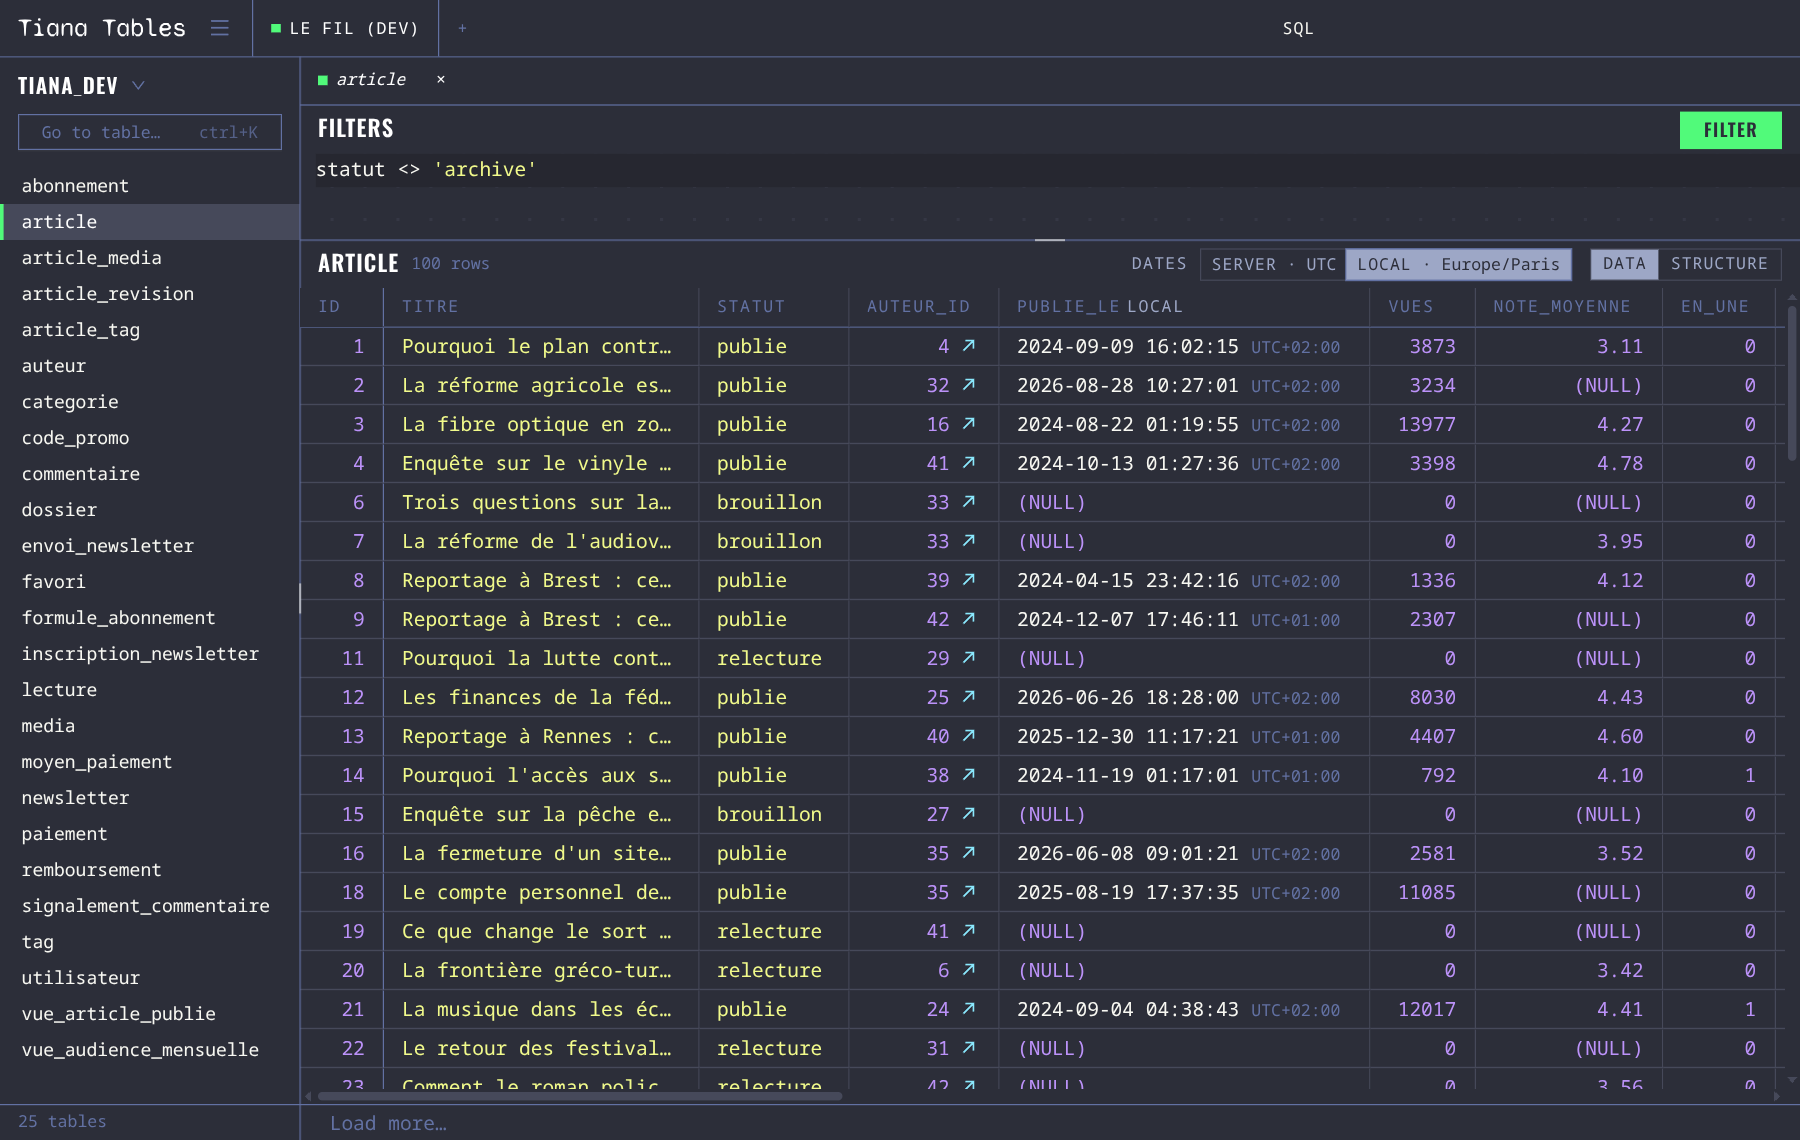
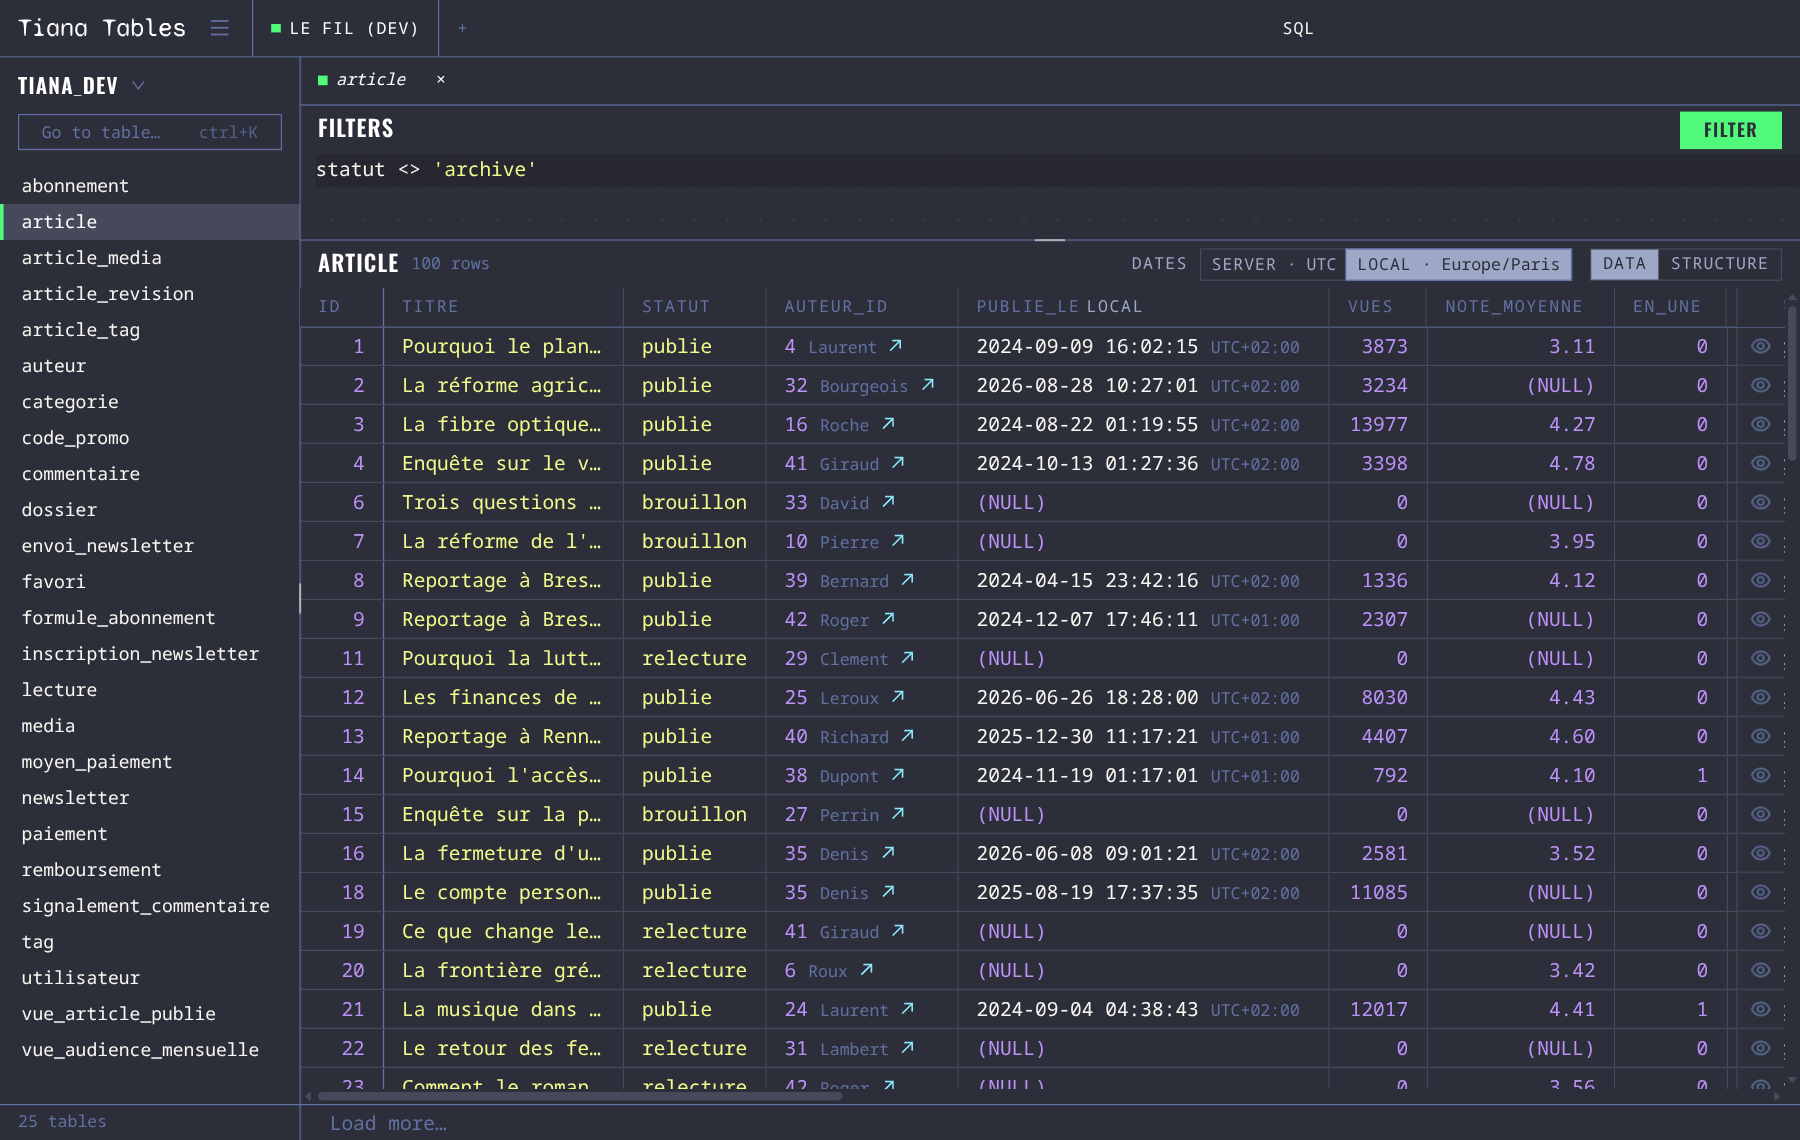
Show the label of a foreign key in the screenshots and on the site
The hero shot and the site's drawn table page now show the name of the
author after each auteur_id, as the app does. The hero's auteur_id
column widens to read it whole, the title and a few numeric columns
narrow to keep en_une beside the row's eye.

diff --git a/website/src/AppWindow.tsx b/website/src/AppWindow.tsx
@@ -168,6 +168,22 @@ const ROWS: Array<Row> = [
 
 const SELECTED_ID = 4;
 
+/** `auteur.nom` of each `auteur_id` above, the label the app shows after the key */
+const AUTHOR_NAMES: Record<number, string> = {
+  4: 'Laurent',
+  16: 'Roche',
+  25: 'Leroux',
+  27: 'Perrin',
+  29: 'Clement',
+  32: 'Bourgeois',
+  33: 'David',
+  38: 'Dupont',
+  39: 'Bernard',
+  40: 'Richard',
+  41: 'Giraud',
+  42: 'Roger',
+};
+
 /** The table page of the app, drawn: sidebar, filters and the grid of `article`. */
 export function AppWindow(): ReactElement {
   const { site, app } = useText();
@@ -256,7 +272,7 @@ export function AppWindow(): ReactElement {
                     <th className="numeric">id</th>
                     <th>titre</th>
                     <th>statut</th>
-                    <th className="numeric">auteur_id</th>
+                    <th>auteur_id</th>
                     <th>
                       publie_le <em>{local}</em>
                     </th>
@@ -284,8 +300,11 @@ export function AppWindow(): ReactElement {
                         <td className="numeric number">{id}</td>
                         <td className="truncated">{title}</td>
                         <td className="string">{status}</td>
-                        <td className="numeric number foreign-key">
+                        <td className="number foreign-key">
                           {authorId}
+                          <span className="row-label">
+                            {AUTHOR_NAMES[authorId]}
+                          </span>
                         </td>
                         {publishedAt ? (
                           <td>

diff --git a/website/src/style.css b/website/src/style.css
@@ -841,7 +841,8 @@ h1 .title-dot {
   overflow: hidden;
   text-overflow: ellipsis;
 }
-.grid .time-zone {
+.grid .time-zone,
+.grid .row-label {
   color: var(--rule);
   font-size: 11px;
   margin-left: var(--s2);

diff --git a/docs/screenshots/SHOTLIST.md b/docs/screenshots/SHOTLIST.md
@@ -9,11 +9,11 @@ node docs/screenshots/shots.mjs     # Node 26; no other Tiana instance running
 
 The script starts the app on a throwaway profile, creates a "Le Fil (dev)" connection through the form, stages the rest through the app's own `window.config` calls (column order and widths, filter, dates in local time, theme, panel size), then drives it over the devtools protocol and quits.
 
-| File             | What                                                                                                                                                                                 | Theme                                                                                                                     | Note                                                         |
-| ---------------- | ------------------------------------------------------------------------------------------------------------------------------------------------------------------------------------ | ------------------------------------------------------------------------------------------------------------------------- | ------------------------------------------------------------ |
-| `hero.png`       | The whole window on `article`, filtered on `statut <> 'archive'`, columns reordered to show an enum, a foreign key, a datetime and its NULLs, numbers, a decimal, a boolean and JSON | Dracula                                                                                                                   | 1200 × 760 css px at 1.5×.                                   |
-| `sql-editor.png` | The SQL page, typed up to `WHERE a.` so the suggest widget lists `article`'s columns                                                                                                 | Dracula                                                                                                                   | Cropped to the Query region.                                 |
-| `chart.png`      | Monthly reads from `vue_audience_mensuelle`, flipped to a chart on the axes it picks itself                                                                                          | Dracula                                                                                                                   | Cropped to the Result region, with the editor shrunk to 28%. |
-| `themes.png`     | The top-left corner of the hero window in nine themes, a checkerboard of five dark and four light                                                                                    | Dracula, Unikitty Light, Tokyo Night Dark / Solarized Light, Nord, Catppuccin Latte / Monokai, Gruvbox Light, Outrun Dark | Nine 400 × 270 css px crops at 1.5×, in a 3 × 3 grid.        |
+| File             | What                                                                                                                                                                                                          | Theme                                                                                                                     | Note                                                         |
+| ---------------- | ------------------------------------------------------------------------------------------------------------------------------------------------------------------------------------------------------------- | ------------------------------------------------------------------------------------------------------------------------- | ------------------------------------------------------------ |
+| `hero.png`       | The whole window on `article`, filtered on `statut <> 'archive'`, columns reordered to show an enum, a foreign key and the label of its row, a datetime and its NULLs, numbers, a decimal, a boolean and JSON | Dracula                                                                                                                   | 1200 × 760 css px at 1.5×.                                   |
+| `sql-editor.png` | The SQL page, typed up to `WHERE a.` so the suggest widget lists `article`'s columns                                                                                                                          | Dracula                                                                                                                   | Cropped to the Query region.                                 |
+| `chart.png`      | Monthly reads from `vue_audience_mensuelle`, flipped to a chart on the axes it picks itself                                                                                                                   | Dracula                                                                                                                   | Cropped to the Result region, with the editor shrunk to 28%. |
+| `themes.png`     | The top-left corner of the hero window in nine themes, a checkerboard of five dark and four light                                                                                                             | Dracula, Unikitty Light, Tokyo Night Dark / Solarized Light, Nord, Catppuccin Latte / Monokai, Gruvbox Light, Outrun Dark | Nine 400 × 270 css px crops at 1.5×, in a 3 × 3 grid.        |
 
 The window is emulated at 1200 css px and a 1.5 scale factor, the 1800 px the README shows at 900, so nothing is upscaled. The two dev-only marks are hidden before each capture: the path bar through its View › Developer tools menu item, the "(dev mode)" label of the title bar with an inline style. Needs Python with Pillow for the `themes.png` montage.
